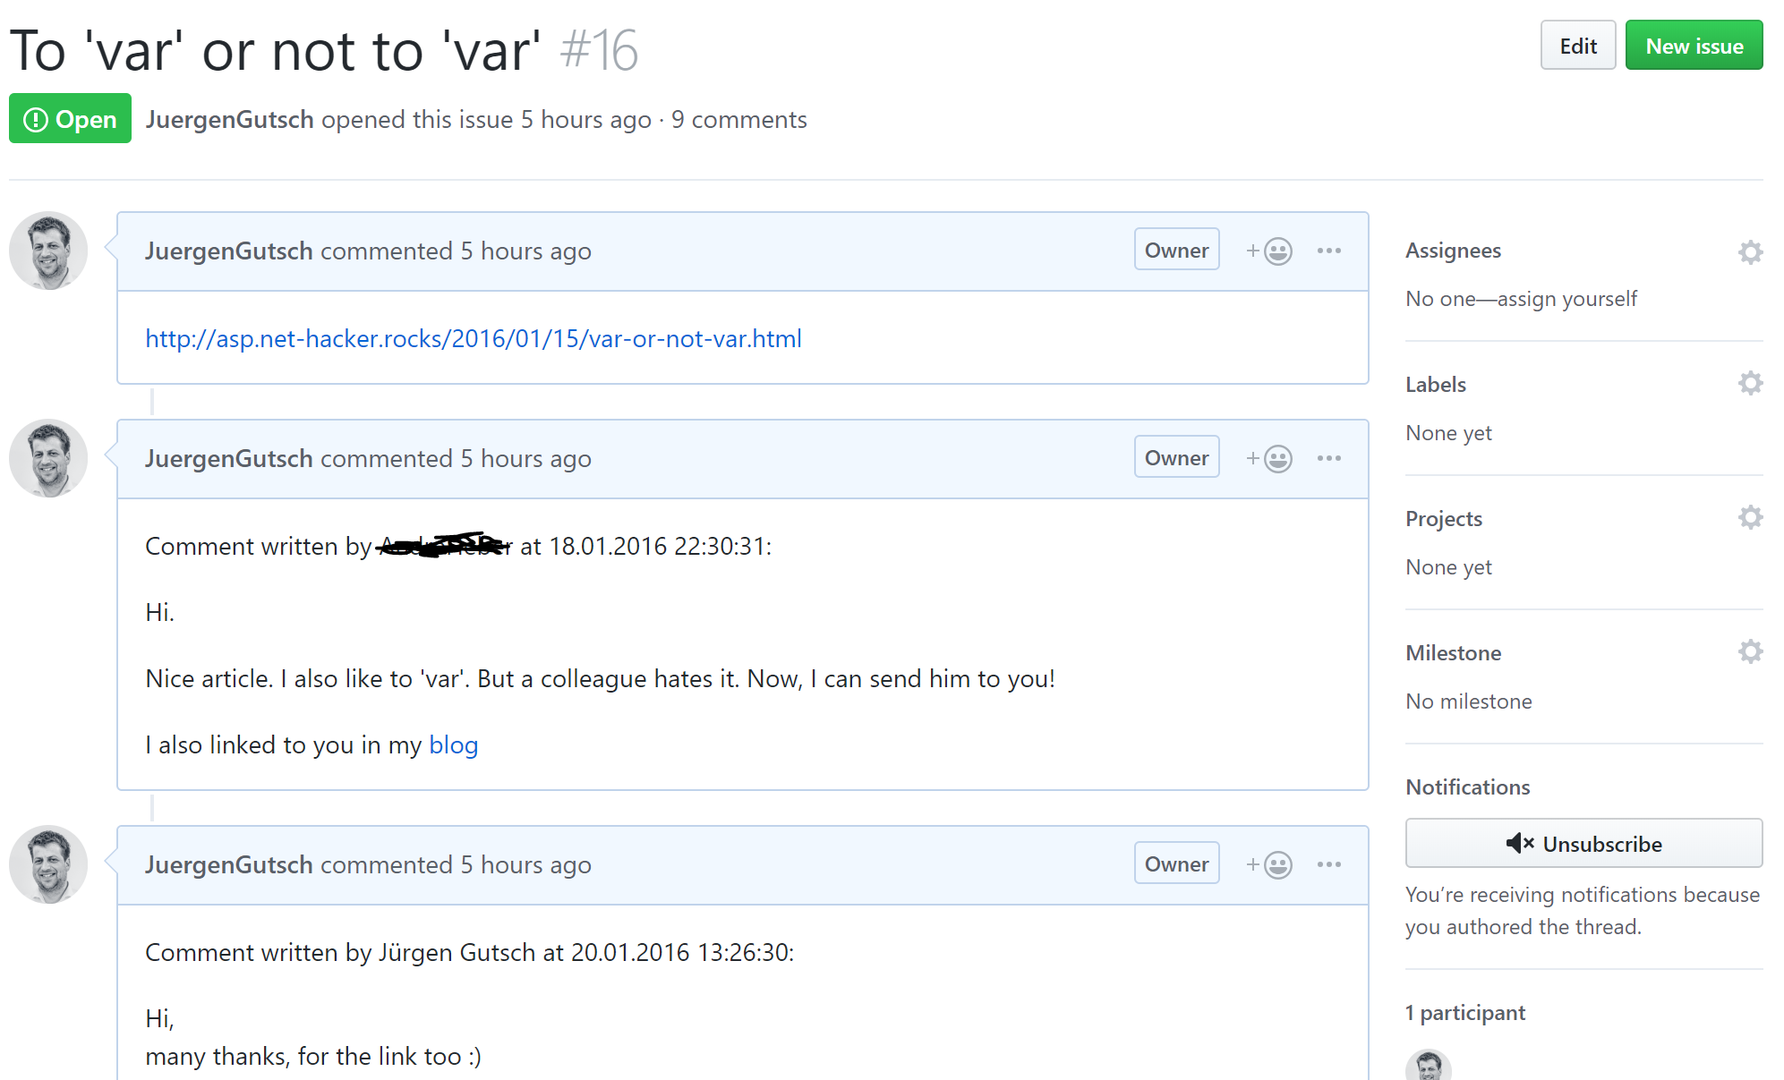
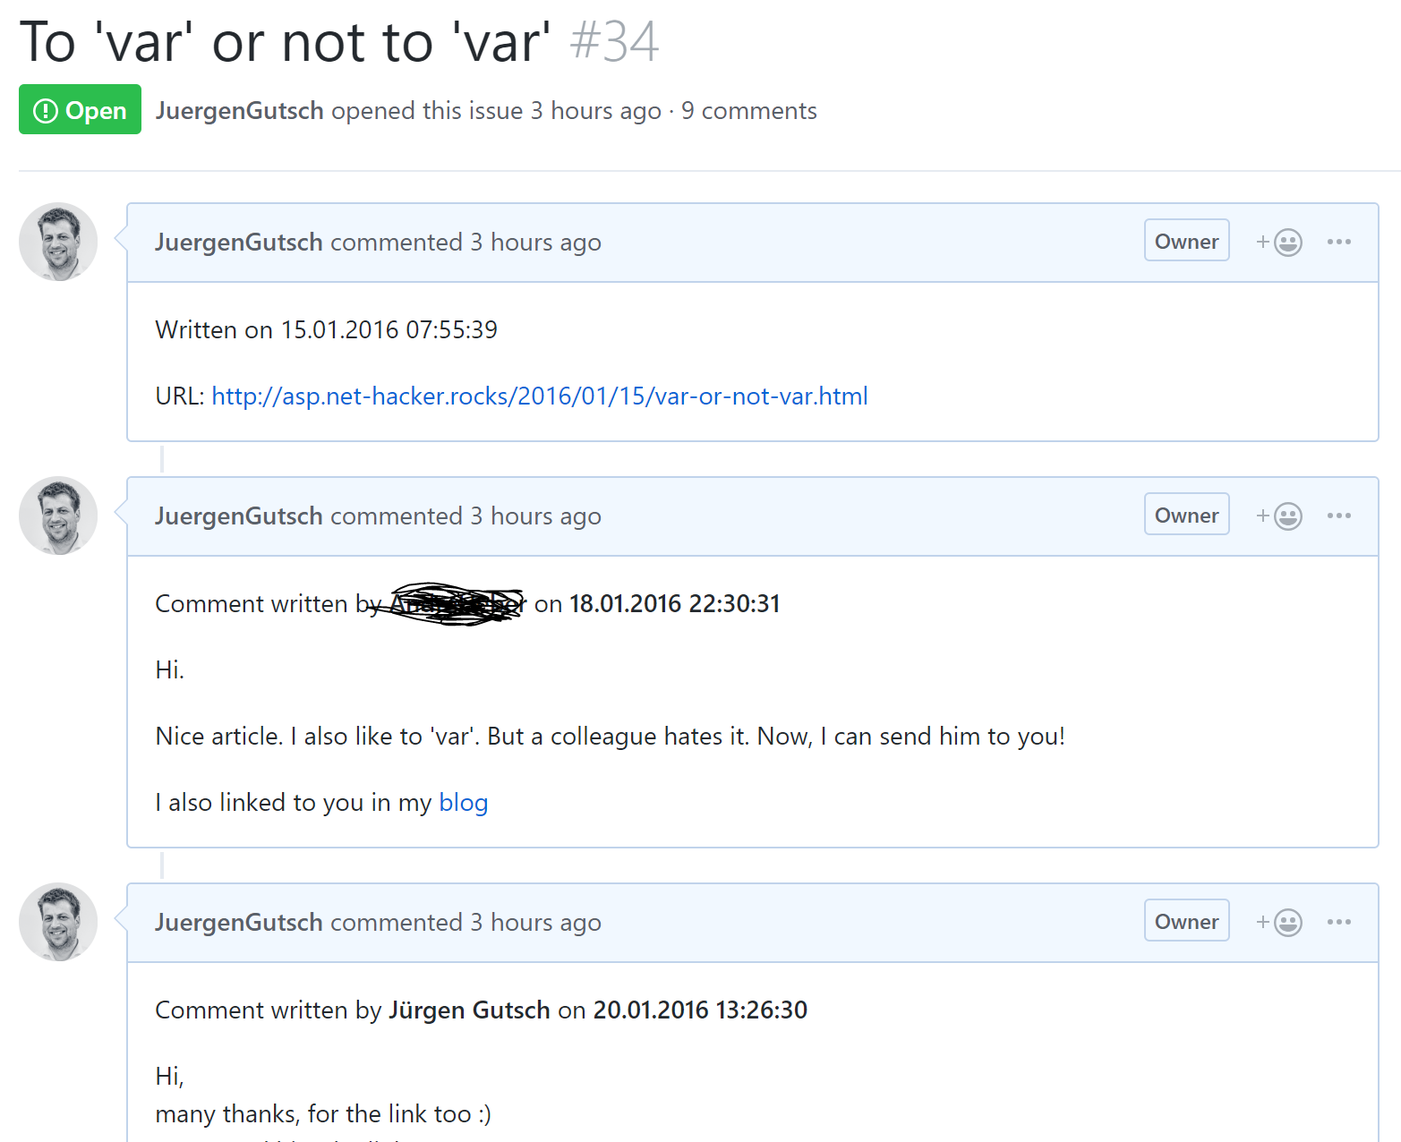
continue writing

diff --git a/_source/css/style.css b/_source/css/style.css
@@ -294,7 +294,7 @@ article>ol li {
     margin-bottom: 5px;
 }
 
-.utterances,
+.utterances {}
 .utterances-frame {}
 
 

diff --git a/_source/_posts/2018-12-01-github-comments.md b/_source/_posts/2018-12-01-github-comments.md
@@ -1,7 +1,7 @@
 ---
 layout: post
 title: "Removing Disqus and adding GitHub Issue Comments"
-teaser: "description"
+teaser: "In this post I write about why I removed Disqus from my blog and how I added GitHub issue based comments to my blog"
 author: "Jürgen Gutsch"
 comments: true
 image: /img/cardlogo-dark.png
@@ -12,41 +12,45 @@ tags:
 - MSTest
 ---
 
-I ran this blog for around three years now and wrote almost 100 posts until yet. This blog is based on Pretzel, which is a .NET based Jekyll clone, that creates a static website. Pretzel as well as Jekyll is optimized for blogs or similar structured web sites. Both systems take markdown files and turn them based on the Liquid template engine into static HTML pages. This works pretty well and I really like the way to push markdown files to the GitHub repo and get an updated blog a few seconds later on Azure. This is continuous delivery using GitHub and Azure for blog posts. It is amazing. And I really love blogging this way.
+I recently realized that I ran this new blog for almost exactly three years now and wrote almost 100 posts until yet. Running this blog is completely different compared to the the previous one based on the community server on ASP.NET Zone. I now write on markdown files which I commit and push to GitHub. I also switched the language. From January 2007 to November 2015 I wrote in German and since I run this GitHub based blog I switched completely to English, which is a great experience and improves the English writing and speaking skills a lot.
+
+This blog is based on [Pretzel](https://github.com/Code52/pretzel), which is a .NET based [Jekyll](https://jekyllrb.com/) clone, that creates a static website. Pretzel as well as Jekyll is optimized for blogs or similar structured web sites. Both systems take markdown files and turn them based on the [Liquid template engine](https://jekyllrb.com/docs/step-by-step/02-liquid/) into static HTML pages. This works pretty well and I really like the way to push markdown files to the GitHub repo and get an updated blog a few seconds later on Azure. This is continuous delivery using GitHub and Azure for blog posts. It is amazing. And I really love blogging this way.
 
 Because the blog is static HTML at the end I need to extend it with software as a service solutions to create dynamic content or to track the success of that blog.
 
 > Actually the blog is successful from my perspective. Around 6k visits per week is a good number, I guess. 
 
-So I added Disqus to enable comments on this blog. Disqus was quite popular at that time for this kind of blogs and I also get some traffic from Disqus. Anyway, this service started to show some advertisement on my page and it also shows advertisement that is not really related to the contents of my page. 
+So I added [Disqus](https://disqus.com/) to enable comments on this blog. Disqus was quite popular at that time for this kind of blogs and I also get some traffic from Disqus. Anyway, now this service started to show some advertisement on my page and it also shows advertisement that is not really related to the contents of my page. 
 
 I also added a small Google AdSense banner to the blog, but this is placed at the end of the page and doesn't really annoy you as a reader, I hope. I put some text upon this banner, to ask you as a reader to support my blog if you like it. A click on that banner doesn't really cost some time or money.
 
-I don't get anything out of the annoying off-topic adds that Disqus shows here, except a free tool to collect blog post comments and store it somewhere outside in the cloud. I don't really "own" the comments, which is the other downside.
+I don't get anything out of the annoying off-topic adds that Disqus shows here, except a free tool to collect blog post comments and store them somewhere outside in the cloud. I don't really "own" the comments, which is the other downside.
 
-Sure Disqus is a free service and someone need to pay for it, but the ownership of the contents is an problem as well that I cannot influence the contents of the adds displayed on my blog:
+Sure Disqus is a free service and someone need to pay for it, but the ownership of the contents is an problem as well as the fact that I cannot influence the contents of the adds displayed on my blog:
 
-![](..\img\github-comments\disqus-add.png)
+![]({{site.baseurl}}/img/github-comments/disqus-add.png)
 
 ## Owning the comments
 
-The comments are important contents, you provided to me. But they are completely separated from the blog post they relate to. They are stored on a different cloud. Actually I have no idea where Disqus stores the comments.
+The comments are important contents, you provided to me, to the other readers and to the entire developer community. But they are completely separated from the blog post they relate to. They are stored on a different cloud. Actually I have no idea where Disqus stores the comments.
 
-How do I own the comments? My idea is to use GitHub Issues of the blog repository to collect the comments. Every first comment to a post creates a GitHub Issue and any comment is a comment on this issue. With this solution the actual posts and the comments are in the same repository, they can be linked together and I own this comments a little more than previously.
+How do I own the comments? 
+
+My idea is to use GitHub issues of the blog repository to collect the comments. Every first comment to a post creates a GitHub issue and any comment is a comment on this issue. With this solution the actual posts and the comments are in the same repository, they can be linked together and I own this comments a little more than previously.
 
 I already asked on twitter about that and got some positive feedback.
 
-> "For my blog comments I'm thinking about moving back from disqus to github issue based comments. Mainly because of the ads I don't want to show. What do you think?" 
+> "For my blog comments I'm thinking about moving back from disqus to github issue based comments. Mainly because of the ads I don't want to show. What do you think?" TODO Twitter link
 
-## Implementing the GitHub comments
+## Evaluating a solution
 
 There are already some JavaScript codes available which can be used to add GitHub Issues as comments. The GitHub API is well documented and it should be easy to do this. 
 
-I already evaluated a solution to use: I will go with Utterance
+I already evaluated a solution to use and decided to go with Utterance
 
 > "A lightweight comments widget built on GitHub issues"
 
-Utterance was built by [Jeremy Danyow](https://www.danyow.net/author/jeremy/). I stumbled upon it on Jeremys blog post about [Using GitHub Issues for Blog Comments](https://www.danyow.net/using-github-issues-for-blog-comments/)
+Utterance was built by [Jeremy Danyow](https://www.danyow.net/author/jeremy/). I stumbled upon it on Jeremys blog post about [Using GitHub Issues for Blog Comments](https://www.danyow.net/using-github-issues-for-blog-comments/). Jeremy works as a Senior Software Engineer at Microsoft, he is member of the Aurelia core team and created also [gist.run](https://gist.run/). 
 
 More Links about it: https://utteranc.es/ and https://github.com/utterance
 
@@ -64,9 +68,9 @@ At the end I just need to add a small HTML snippet to my blog:
 
 This script will search for Issues with the same title as the current page. If there's no such issue, it will create a new one. If there is such an issue it will create an comment on that issue. This script also supports markdown.
 
-## Open questions
+## Open questions until yet
 
-One pretty important open question: 
+Some important open question came up while evaluating the solution: 
 
 1. Is it possible to import all the Disqus comments to GitHub Issues? 
    - This is what I need to figure out now.
@@ -74,27 +78,30 @@ One pretty important open question:
 2. What if Jeremys services are not available anymore?
    - He runs an authentication service and a service that posts the comments into GitHub Issues
    - I think in that case I just need to host it by myself. The codes are open source and [available on GitHub](https://github.com/utterance).
+   - Actually there are self hosting instructions available: [https://github.com/utterance/utterances/issues/42#issuecomment-399723028](https://github.com/utterance/utterances/issues/42#issuecomment-399723028) 
 
-The second question is easy to solve. As I said I will just host the stuff by my own in case Jeremy will shut down his services. The first question is much more essential. It would be cool to get the comments somehow in a readable format. I would than write a small script or a small console app to import the comments as GitHub Issues.
+The second question is easy to solve. As I wrote, I will just host the stuff by my own in case Jeremy will shut down his services. The first question is much more essential. It would be cool to get the comments somehow in a readable format. I would than write a small script or a small console app to import the comments as GitHub Issues.
 
 ## Exporting the Disqus comments to GitHub Issues
 
 Fortunately there is an export feature on Disqus, in the administration settings of the site:
 
-![](..\img\github-comments\disqus-export.png)
+![]({{site.baseurl}}/img/github-comments/disqus-export.png)
 
-After clicking "Export Comment" the export gets scheduled and you'll get an email with the download link to the export. The Export is a gz compressed XML file including all threads and posts. A thread in this case is an entry per page where the comment form was visible. A thread actually doesn't need to contain comments. Post are comments related to a thread. Posts contain the actual comment as message, Author information and relations to the thread and the parent post if it is a reply to a comment.
+After clicking "Export Comment" the export gets scheduled and you'll get an email with the download link to the export. 
 
-![](..\img\github-comments\disqus-export-xml.png)
+The exported file is a GZ compressed XML file including all threads and posts. A thread in this case is an entry per blog post where the comment form was visible. A thread actually doesn't need to contain comments. Post are comments related to a thread. Posts contain the actual comment as message, Author information and relations to the thread and the parent post if it is a reply to a comment.
 
-This is pretty clean XML and it should be easy to import that automatically into GitHub Issues. Now I need to figure out how the GitHub API works and to write a small C# Script to import all the comments.
+![]({{site.baseurl}}/img/github-comments/disqus-export-xml.png)
 
-This XML also includes the authors names and usernames. This is cool to know don't have any value for me, because Disqus user are no GitHub user. I can't set the comments in behalf of real GitHub users. So any migrated comment will be done by myself and I need to mark the comment, that it originally came from another reader.
+This is pretty clean XML and it should be easy to import that automatically into GitHub Issues. Now I needed to figure out how the GitHub API works and to write a small C# Script to import all the comments.
+
+This XML also includes the authors names and usernames. This is cool to know, but it doesn't have any value for me anymore, becaus Disqus users are no GitHub users. I can't set the comments in behalf of real GitHub users. So any migrated comment will be done by myself and I need to mark the comment, that it originally came from another reader.
 
 So it will be something like this:
 
 ~~~ csharp
-var comment = $@"Comment written by {post.Author} at {post.CreatedAt}:
+var message = $@"Comment written by **{post.Author}** on **{post.CreatedAt}**
 
 {post.Message}
 ";
@@ -104,11 +111,11 @@ var comment = $@"Comment written by {post.Author} at {post.CreatedAt}:
 
 I decided to write a small console app and to do some initial tests on a test repo. I extracted the exported data and moved it into the .NET Core console app folder and tried to play around with it.
 
-First I read all threads out of the file and than the posts afterwards. A only select the threads that are not marked as closed and not marked as deleted. I also check the blog post URL of the thread, because sometimes the thread was created by a local test run, sometimes I changed the publication date of a post afterwards, which also changed the URL and sometimes the thread was created by a post that was displayed via a proxying page. I tried to filter all that stuff out. The URL need to start with http://asp.net-hacker.rocks or https://asp.net-hacker.rocks to be valid. Also the posts shouldn't be marked as deleted or marked as spam
+First I readed all threads out of the file and than the posts afterwards. A only selected the threads that are not marked as closed and not marked as deleted. I also checked the blog post URL of the thread, because sometimes the thread was created by a local test run, sometimes I changed the publication date of a post afterwards, which also changed the URL and sometimes the thread was created by a post that was displayed via a proxying page. I tried to filter all that stuff out. The URL need to start with http://asp.net-hacker.rocks or https://asp.net-hacker.rocks to be valid. Also the posts shouldn't be marked as deleted or marked as spam
 
 Than I assigned the posts to the specific threads using the provided thread id and ordered the posts by date. This breaks the dialogues of the Disqus threads, but should be ok for the first step.
 
-Than I create the actual issue post it and post the assign comments to the new issue. 
+Than I created the actual issue post it and posted the assigned comments to the new issue. 
 
 That's it.
 
@@ -129,62 +136,62 @@ Console.WriteLine($"{threads.Count()} valid threads found");
 Console.WriteLine($"{posts.Count()} valid posts found");
 ~~~
 
-I need to use the XmlNamespaceManager here to use tags and properties using the Disqus namespaces. The XmlDocument as well as the XmlNamespaceManager need to get passed into the read methods then. The two find methods are than reading the threads and posts out of the XmlDocument.
+I need to use the `XmlNamespaceManager` here to use tags and properties using the Disqus namespaces. The `XmlDocument` as well as the `XmlNamespaceManager` need to get passed into the read methods then. The two find methods are than reading the threads and posts out of the `XmlDocument`.
 
 In the next snippet I show the code to read the threads:
 
 ~~~ csharp
 private static async Task<IEnumerable<Thread>> FindThreads(XmlDocument doc, XmlNamespaceManager nsmgr)
+{
+    var xthreads = doc.DocumentElement.SelectNodes("def:thread", nsmgr);
+
+    var threads = new List<Thread>();
+    var i = 0;
+    foreach (XmlNode xthread in xthreads)
     {
-        var xthreads = doc.DocumentElement.SelectNodes("def:thread", nsmgr);
+        i++;
 
-        var threads = new List<Thread>();
-        var i = 0;
-        foreach (XmlNode xthread in xthreads)
+        long threadId = xthread.AttributeValue<long>(0);
+        var isDeleted = xthread["isDeleted"].NodeValue<bool>();
+        var isClosed = xthread["isClosed"].NodeValue<bool>();
+        var url = xthread["link"].NodeValue();
+        var isValid = await CheckThreadUrl(url);
+
+        Console.WriteLine($"{i:###} Found thread ({threadId}) '{xthread["title"].NodeValue()}'");
+
+        if (isDeleted)
         {
-            i++;
-
-            long threadId = xthread.AttributeValue<long>(0);
-            var isDeleted = xthread["isDeleted"].NodeValue<bool>();
-            var isClosed = xthread["isClosed"].NodeValue<bool>();
-            var url = xthread["link"].NodeValue();
-            var isValid = await CheckThreadUrl(url);
-
-            Console.WriteLine($"{i:###} Found thread ({threadId}) '{xthread["title"].NodeValue()}'");
-
-            if (isDeleted)
-            {
-                Console.WriteLine($"{i:###} Thread ({threadId}) was deleted.");
-                continue;
-            }
-            if (isClosed)
-            {
-                Console.WriteLine($"{i:###} Thread ({threadId}) was closed.");
-                continue;
-            }
-            if (!isValid)
-            {
-                Console.WriteLine($"{i:###} the url Thread ({threadId}) is not valid: {url}");
-                continue;
-            }
-
-            Console.WriteLine($"{i:###} Thread ({threadId}) is valid");
-            threads.Add(new Thread(threadId)
-            {
-                Title = xthread["title"].NodeValue(),
-                Url = url,
-                CreatedAt = xthread["createdAt"].NodeValue<DateTime>()
-
-            });
+            Console.WriteLine($"{i:###} Thread ({threadId}) was deleted.");
+            continue;
+        }
+        if (isClosed)
+        {
+            Console.WriteLine($"{i:###} Thread ({threadId}) was closed.");
+            continue;
+        }
+        if (!isValid)
+        {
+            Console.WriteLine($"{i:###} the url Thread ({threadId}) is not valid: {url}");
+            continue;
         }
 
-        return threads;
+        Console.WriteLine($"{i:###} Thread ({threadId}) is valid");
+        threads.Add(new Thread(threadId)
+        {
+            Title = xthread["title"].NodeValue(),
+            Url = url,
+            CreatedAt = xthread["createdAt"].NodeValue<DateTime>()
+
+        });
     }
+
+    return threads;
+}
 ~~~
 
 I think there's nothing magic in it. Even assigning the posts to the threads is just some LINQ code.
 
-To create the actual issues and comments, I use the Octokit.NET library which is available on NuGet and GitHub. 
+To create the actual issues and comments, I use the [Octokit.NET](https://github.com/octokit/octokit.net) library which is [available on NuGet](https://www.nuget.org/packages/Octokit/) and GitHub. 
 
 ~~~ shell
 dotnet add package Octokit
@@ -196,35 +203,37 @@ This library is quite simple to use and well documented:
 private static async Task PostIssuesToGitHub(IEnumerable<Thread> threads)
 {
     var client = new GitHubClient(new ProductHeaderValue("DisqusToGithubIssues"));
-    var basicAuth = new Credentials(repoOwner, "majuhekaph557!");
+    var basicAuth = new Credentials("secret personal token from github");
     client.Credentials = basicAuth;
 
-    // load the existing issues
     var issues = await client.Issue.GetAllForRepository(repoOwner, repoName);
     foreach (var thread in threads)
     {
-        // check for existing issues
-        if (issues.Any(x => x.Title.Equals(thread.Title)))
+        if (issues.Any(x => !x.ClosedAt.HasValue && x.Title.Equals(thread.Title)))
         {
             continue;
         }
 
         var newIssue = new NewIssue(thread.Title);
-        newIssue.Body = thread.Url;
-		// create a new issue in github
+        newIssue.Body = $@"Written on {thread.CreatedAt} 
+
+URL: {thread.Url}
+";
+
         var issue = await client.Issue.Create(repoOwner, repoName, newIssue);
         Console.WriteLine($"New issue (#{issue.Number}) created: {issue.Url}");
-        
+        await Task.Delay(1000 * 5);
+
         foreach (var post in thread.Posts)
         {
-            var message = $@"Comment written by {post.Author} at {post.CreatedAt}:
+            var message = $@"Comment written by **{post.Author}** on **{post.CreatedAt}**
 
 {post.Message}
 ";
-                    
-			// create a new comment in github
-            var comment = await client.Issue.Comment.Create(repoOwner, repoName, issue.Number, message); 
+
+            var comment = await client.Issue.Comment.Create(repoOwner, repoName, issue.Number, message);
             Console.WriteLine($"New comment by {post.Author} at {post.CreatedAt}");
+            await Task.Delay(1000 * 5);
         }
     }
 }
@@ -232,20 +241,55 @@ private static async Task PostIssuesToGitHub(IEnumerable<Thread> threads)
 
 After I started that code, the console app starts to add issues and comments to GitHub:
 
-![](..\img\github-comments\disqus-on-github.png)
+![]({{site.baseurl}}/img/github-comments/disqus-on-github.png)
 
 The comments are set as expected:
 
-![](..\img\github-comments\disqus-on-github-comment.png)
+![]({{site.baseurl}}/img/github-comments/disqus-on-github-comment.png)
+
+Unfortunately the import breaks after a while with a weird exception.
 
 ## Octokit.AbuseException
 
-Unfortunately that run doesn't finish. After the first few issues were entered I got an exception like this.
+Unfortunately that run didn't finish. After the first few issues were entered I got an exception like this.
 
 ~~~ text
 Octokit.AbuseException: 'You have triggered an abuse detection mechanism and have been temporarily blocked from content creation. Please retry your request again later.'
-
 ~~~
 
-I now need to find a way to add issues and comments in a more friendly way to not get blocked by GitHub.
+This Exception happens because I reached the creation rate limit (user.creation_rate_limit_exceeded). This limit is set by GitHub on the public API. It is not allowed to do more than 5000 requests per hour: [https://developer.github.com/v3/#rate-limiting](https://developer.github.com/v3/#rate-limiting)
 
+You can see such security related events in the security tap of your GitHub account settings.
+
+There is no solution to solve this problem, except to add more checks and fallbacks to the migration code. I checked which issue already exists and migrate only the issues that don't exist. I also added a five second delay between each request to GitHub. This only increases the migration time, and  helps to start the migration only two times. 
+
+## Using Utterances
+
+Once the Issues are migrated to GutHub, I need to use Utterances to the blog. At first you need to install the [utterances app](https://github.com/apps/utterances) on your repository. The repository needs to be public and the issues should be enabled obviously. 
+
+On https://utteranc.es/ there is a kind of a configuration wizard that creates the HTML snippet for you, which you need to add to your blog. In my case it is the small snippet I already showed previously:
+
+~~~ html
+<script src="https://utteranc.es/client.js"
+        repo="juergengutsch/blog"
+        issue-term="title"
+        theme="github-light"
+        crossorigin="anonymous"
+        async>
+</script>
+~~~
+
+This loads Uttereances client script, configures my blog repository and the way the issued will be found in my repository. You have different options for the issue-term. Since I set the blog post title as GitHub issue title, I need to tell Utterances to look at the tile. The theme I want to use here is the GitHub light theme.  The dark theme doesn't fit the blog style. I was also able to override the CSS by overriding the following two CSS classes:
+
+~~~ css
+.utterances {}
+.utterances-frame {}
+~~~
+
+## The result
+
+At the end it worked pretty cool. After the migration and after I changed the relevant blog template I tried it locally using the `pretzel taste` command.
+
+![]({{site.baseurl}}/img/github-comments/utterances-comments.png)
+
+If you want to add a comment as a reader, you need to logon with your GitHub account and you need to grand the utterances app to post to my repo with our name. 
